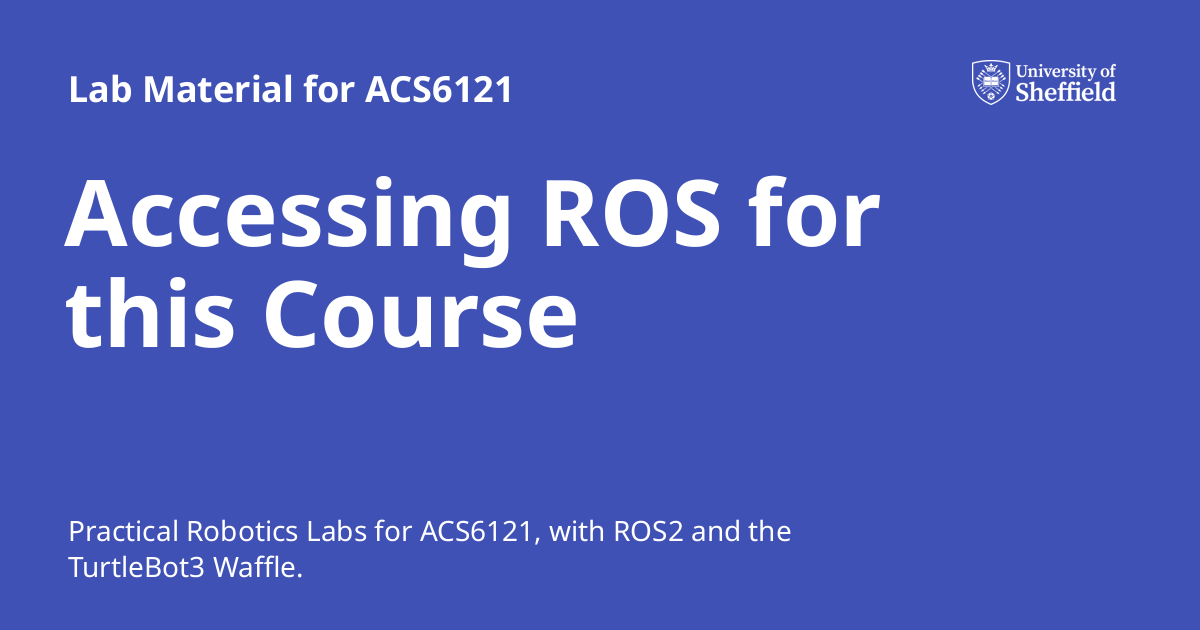
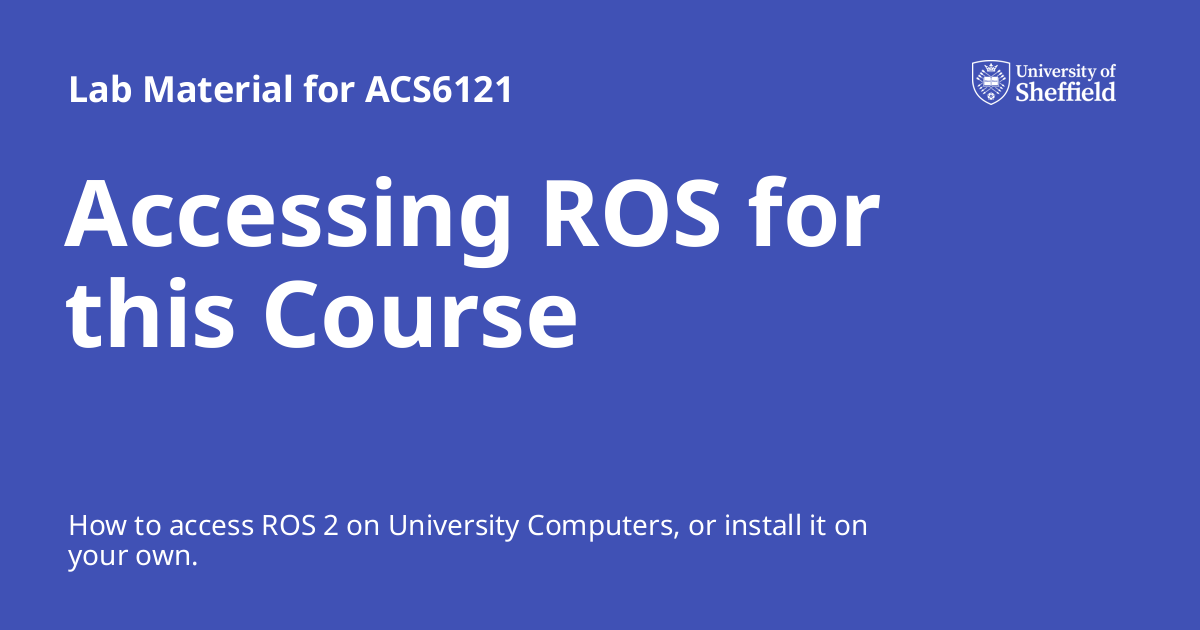
Deployed b5d11ec with MkDocs version: 1.6.1

Changed region(s): [[0.0617, 0.8143, 0.74, 0.9349]]

diff --git a/ros/index.html b/ros/index.html
@@ -6,7 +6,7 @@
       <meta charset="utf-8">
       <meta name="viewport" content="width=device-width,initial-scale=1">
       
-        <meta name="description" content="Practical Robotics Labs for ACS6121, with ROS2 and the TurtleBot3 Waffle.">
+        <meta name="description" content="How to access ROS 2 on University Computers, or install it on your own.">
       
       
       
@@ -65,7 +65,7 @@
       
         <meta  property="og:title"  content="Accessing ROS for this Course - Lab Material for ACS6121" >
       
-        <meta  property="og:description"  content="Practical Robotics Labs for ACS6121, with ROS2 and the TurtleBot3 Waffle." >
+        <meta  property="og:description"  content="How to access ROS 2 on University Computers, or install it on your own." >
       
         <meta  property="og:image"  content="https://tom-howard.github.io/acs6121/assets/images/social/ros/README.png" >
       
@@ -81,7 +81,7 @@
       
         <meta  name="twitter:title"  content="Accessing ROS for this Course - Lab Material for ACS6121" >
       
-        <meta  name="twitter:description"  content="Practical Robotics Labs for ACS6121, with ROS2 and the TurtleBot3 Waffle." >
+        <meta  name="twitter:description"  content="How to access ROS 2 on University Computers, or install it on your own." >
       
         <meta  name="twitter:image"  content="https://tom-howard.github.io/acs6121/assets/images/social/ros/README.png" >
       
@@ -1620,7 +1620,7 @@
     <span class="md-icon" title="Last update">
       <svg xmlns="http://www.w3.org/2000/svg" viewBox="0 0 24 24"><path d="M21 13.1c-.1 0-.3.1-.4.2l-1 1 2.1 2.1 1-1c.2-.2.2-.6 0-.8l-1.3-1.3c-.1-.1-.2-.2-.4-.2m-1.9 1.8-6.1 6V23h2.1l6.1-6.1zM12.5 7v5.2l4 2.4-1 1L11 13V7zM11 21.9c-5.1-.5-9-4.8-9-9.9C2 6.5 6.5 2 12 2c5.3 0 9.6 4.1 10 9.3-.3-.1-.6-.2-1-.2s-.7.1-1 .2C19.6 7.2 16.2 4 12 4c-4.4 0-8 3.6-8 8 0 4.1 3.1 7.5 7.1 7.9l-.1.2z"/></svg>
     </span>
-    <span class="git-revision-date-localized-plugin git-revision-date-localized-plugin-timeago"><span class="timeago" datetime="2025-02-14T14:01:38+00:00" locale="en"></span></span><span class="git-revision-date-localized-plugin git-revision-date-localized-plugin-iso_date">2025-02-14</span>
+    <span class="git-revision-date-localized-plugin git-revision-date-localized-plugin-timeago"><span class="timeago" datetime="2025-02-14T14:45:06+00:00" locale="en"></span></span><span class="git-revision-date-localized-plugin git-revision-date-localized-plugin-iso_date">2025-02-14</span>
   </span>
 
     
